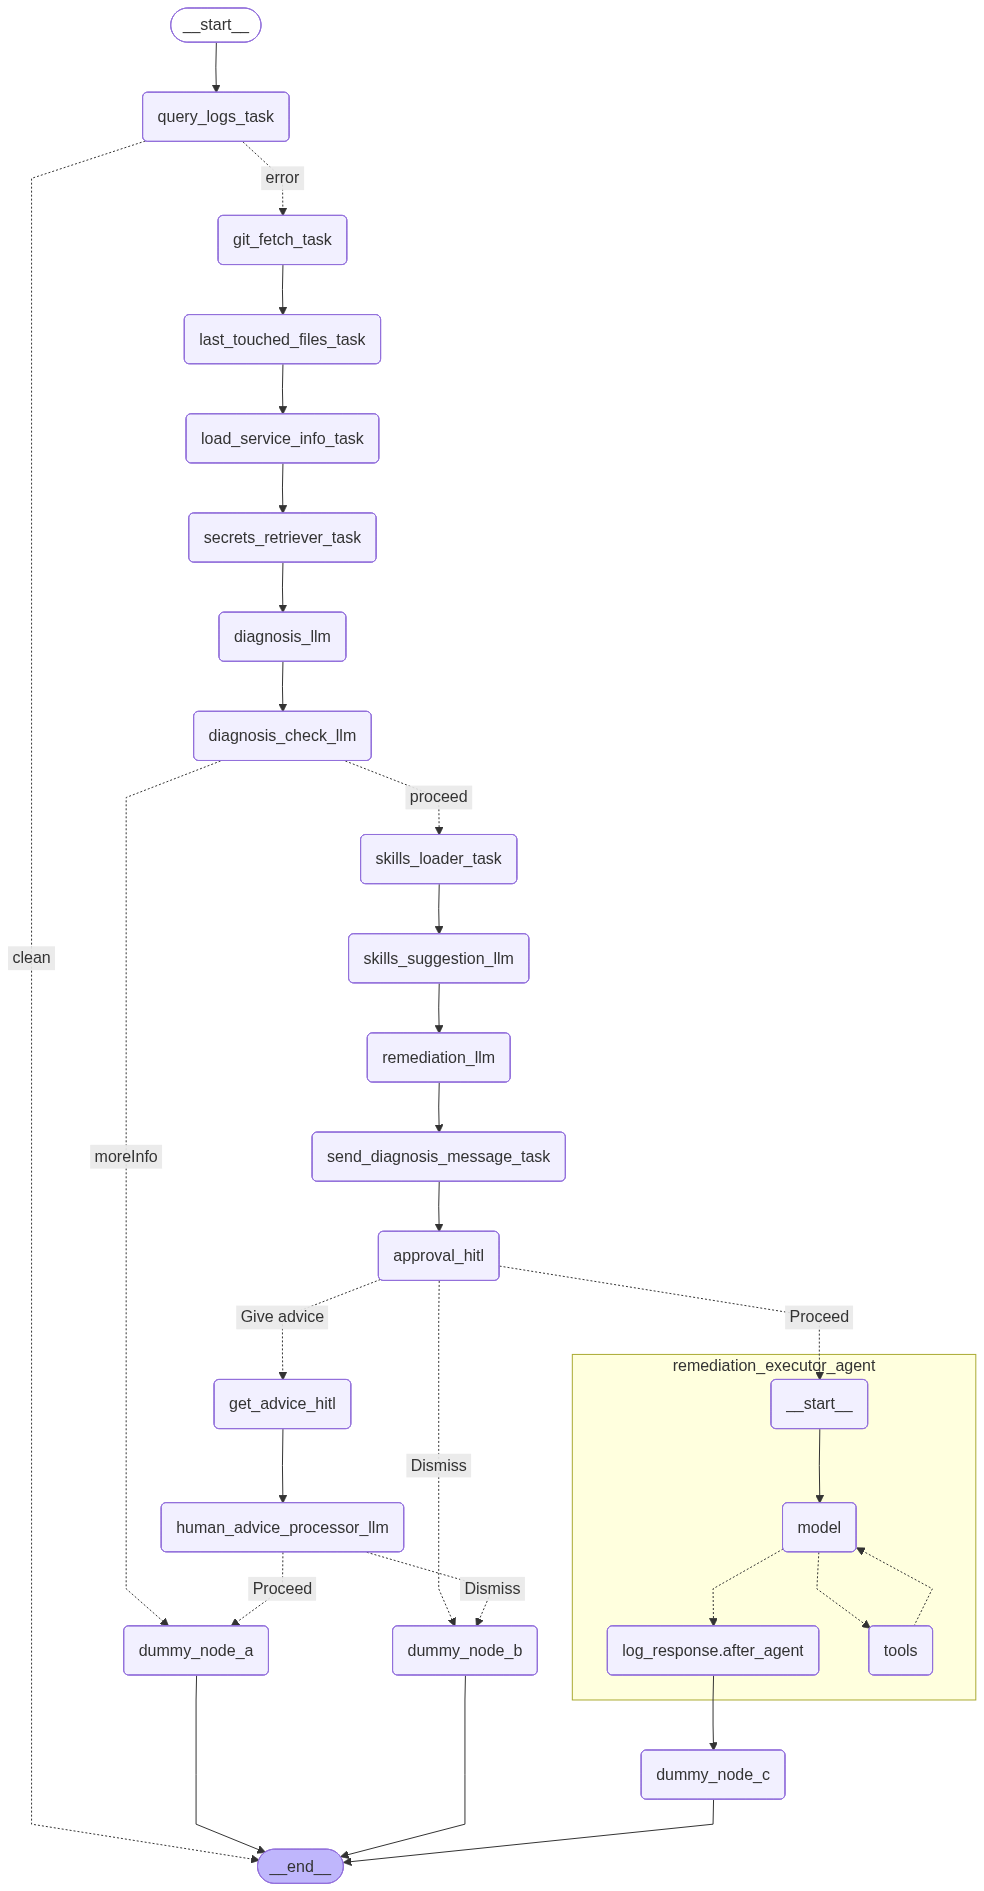
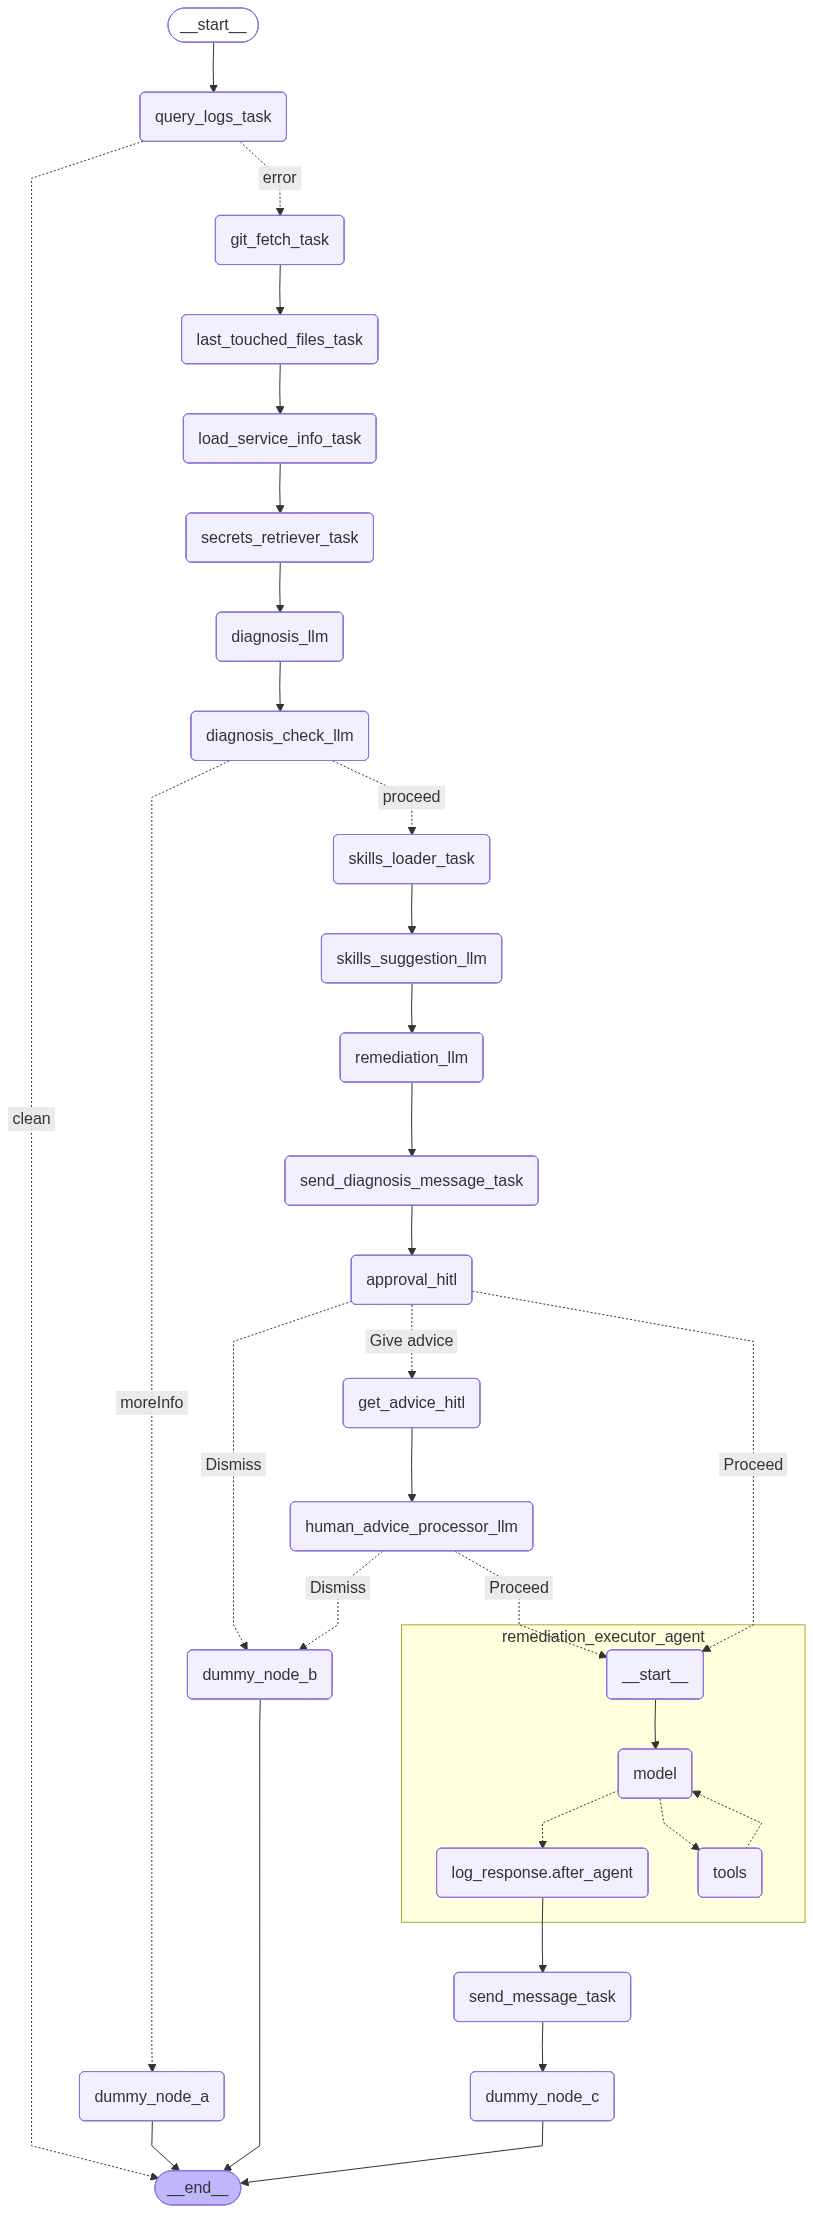
Enhance README and refactor agent workflow
- Updated README.md to include a warning about project usage and added project overview.
- Refactored prompts.py to incorporate user advice into remediation steps.
- Modified middlewares.py to select tools based on user advice.
- Updated workflow.py to integrate new messaging tasks and adjust workflow nodes.
- Deleted obsolete agents_catalog.py and created llms_catalog.py for better organization.
- Added new task node for sending simple messages.
- Created workflow_resume_script.py for resuming workflows based on user decisions.
- Updated workflow_graph.png to reflect recent changes.

diff --git a/app/graph/workflow.py b/app/graph/workflow.py
@@ -6,7 +6,7 @@ from app.agents.llm_factory import LLMsFactory
 from app.agents.prompts import REMEDIATION_AGENT_SYSTEM_PROMPT
 from app.domain.state import State
 from app.graph.middlewares import log_response, select_tools, add_context
-from app.nodes.agents_catalog import *
+from app.nodes.llms_catalog import *
 from app.nodes.edges_catalog import *
 from app.nodes.hitl_interruptors import *
 from app.nodes.task_nodes_catalog import *
@@ -34,6 +34,7 @@ def build_workflow(checkpointer=None, store=None, generate_graph: bool = False) 
     # nodes (injecting deps)
     query_logs_task = query_logs_node(query_logs)
     send_diagnosis_message_task = send_diagnosis_message(send_confirmation_message)
+    send_message_task = send_simple_message(send_message)
     diagnosis_llm = diagnosis_node(openai_llm)
     diagnosis_check_llm = diagnosis_check_node(openai_llm)
     remediation_llm = remediation_node(openai_llm)
@@ -56,7 +57,8 @@ def build_workflow(checkpointer=None, store=None, generate_graph: bool = False) 
     workflow.add_node('remediation_llm', remediation_llm)
     workflow.add_node('human_advice_processor_llm', human_advice_processor_llm)
     workflow.add_node('send_diagnosis_message_task', send_diagnosis_message_task)
-    workflow.add_node('remediation_executor_agent', remediation_executor_agent)
+    workflow.add_node('send_message_task', send_message_task)
+    workflow.add_node('remediation_executor_agent', remediation_agent_executor_n)
     workflow.add_node('approval_hitl', human_approval_node)
     workflow.add_node('get_advice_hitl', human_advice_node)
     workflow.add_node('dummy_node_a', dummy_node_a)
@@ -81,8 +83,9 @@ def build_workflow(checkpointer=None, store=None, generate_graph: bool = False) 
         Constants.HUMAN_APPROVE: 'remediation_executor_agent', Constants.HUMAN_REJECT: 'dummy_node_b', Constants.HUMAN_ADVICE: 'get_advice_hitl' })
     workflow.add_edge('get_advice_hitl', 'human_advice_processor_llm')
     workflow.add_conditional_edges('human_advice_processor_llm', check_human_advice_router, 
-                                   {Constants.HUMAN_APPROVE: 'dummy_node_a', Constants.HUMAN_REJECT: 'dummy_node_b'})
-    workflow.add_edge('remediation_executor_agent', 'dummy_node_c')
+                                   {Constants.HUMAN_APPROVE: 'remediation_executor_agent', Constants.HUMAN_REJECT: 'dummy_node_b'})
+    workflow.add_edge('remediation_executor_agent', 'send_message_task')
+    workflow.add_edge('send_message_task', 'dummy_node_c')
     workflow.add_edge('dummy_node_a', END)
     workflow.add_edge('dummy_node_b', END)
     workflow.add_edge('dummy_node_c', END)

diff --git a/app/graph/middlewares.py b/app/graph/middlewares.py
@@ -27,7 +27,11 @@ async def select_tools(
     handler: Callable[[ModelRequest], ModelResponse],
 ) -> ModelResponse:
     """Middleware to select relevant tools based on state/context."""
-    relevant_tools = load_tools(_get_tools_list_from_state(request.state))
+    advice_tools = []
+    state_tools = load_tools(_get_tools_list_from_state(request.state))
+    if request.state["human_advice_curated"]:
+        advice_tools = load_tools(request.state["human_advice_curated"].tools)
+    relevant_tools = [*state_tools, *advice_tools] 
     return await handler(request.override(tools=relevant_tools))
 
 
@@ -38,11 +42,13 @@ async def add_context(
 ) -> ModelResponse:
     tools = _get_tools_list_from_state(request.state)
     tools_to_use = f"{', '.join(tools)}"
+    user_advice = request.state["human_advice_curated"].suggestions
     prompt_complement = get_bound_message(REMEDIATION_AGENT_ACTION_PROMPT, 
                                           {'context': get_prompt_subfix_lite(request.state), 
                                            'remediation_suggestion': request.state['remediation_steps_suggestion'],
                                            'service_on_analysis_secrets': request.state['secrets_info'].service_on_analysis_secrets,
-                                           'reference_service_secrets': request.state['secrets_info'].reference_service_secrets})
+                                           'reference_service_secrets': request.state['secrets_info'].reference_service_secrets,
+                                           'human_chat_advice': user_advice})
     logger.debug(f"Adding context to system prompt. Tools: {tools_to_use}. Prompt complement: {prompt_complement}")
     new_content = list(request.system_message.content_blocks) + [
         {"type": "text", "text": f"you have access to the following tools: ."},

diff --git a/app/nodes/llms_catalog.py b/app/nodes/llms_catalog.py
@@ -222,8 +222,8 @@ def human_advice_processor_node(llm):
         1. Suggest tools to use
         2. Provide general guidance or instructions in natural language
 
-        Available tools (ONLY these are allowed):
-        {state.skills_suggestion}
+        Available tools (ONLY these are allowed to be adviced, do NOT suggest any tool not in this list):
+        {state.skills_catalog}
 
         Instructions:
         - Do NOT invent tools
@@ -256,9 +256,10 @@ def human_advice_processor_node(llm):
             "confidence": 0.0-1.0
         }}
 
-        User message:
+        The User message to be analyzed is:
         {state.human_chat_advice}
         
+        > Remember to add the user message to the suggestions field in the output if the decision is Proceed, this will be used as an additional input for the remediation agent.
         """)
 
         msg = llm.invoke(prompt)
@@ -271,10 +272,11 @@ def human_advice_processor_node(llm):
     return node
 
 def remediation_agent_executor_node(agent):
-    def node(state: State) -> Command:
+    async def node(state: State) -> Command:
         ''' Agent node to execute the remediation steps provided by the remediation node.
         This node will take the remediation steps suggested by the remediation_node and execute them using the appropriate skills or tools, aiming to resolve the identified issues based on the diagnosis and analysis results.
         '''
-        result = agent.invoke(state)
-        return Command(update=result)
+        result = await agent.ainvoke(state)
+        last_message = result["messages"][-1]
+        return Command(update={'final_message': last_message.content})
     return node

diff --git a/app/agents/prompts.py b/app/agents/prompts.py
@@ -39,8 +39,9 @@ SERVICE_INFO_PREFIX_PROMPT = """
     """
 
 REMEDIATION_AGENT_SYSTEM_PROMPT = [
-    "You are the DevOps engineer responsible for diagnosing and resolving issues in a software service. "
-    "Based on the provided context generated from a diagnosis & remediation flow, your task is to execute the remediation steps to resolve the issue."
+    "You are the DevOps engineer responsible for diagnosing and resolving issues in a software service. ",
+    "Based on the provided context generated from a diagnosis & remediation flow, your task is to execute the remediation steps to resolve the issue.",
+    "There could be a user advice that you should also consider when executing the remediation steps, pay attention to it and use it as an additional input if provided (and if applicable)."
     ]
 
 REMEDIATION_AGENT_ACTION_PROMPT = """
@@ -55,6 +56,9 @@ REMEDIATION_AGENT_ACTION_PROMPT = """
     <previous_suggestion>
     ${remediation_suggestion}
     </previous_suggestion>
+    
+    ### User advice (if any, consider it as well):
+    ${human_chat_advice}
 
     ---
     ### Guidelines:

diff --git a/app/nodes/task_nodes_catalog.py b/app/nodes/task_nodes_catalog.py
@@ -99,3 +99,18 @@ def send_diagnosis_message(message_fn):
             logger.error("Failed to send diagnosis message to any target.")
             return Command(update={'error_message': 'Failed to send diagnosis message to any target.'})
     return node
+
+def send_simple_message(message_fn):
+    def node(state: State) -> Command:
+        '''
+        Tool node to send a simple message to a communication channel (e.g., Telegram) using the provided message sending function.
+        '''
+        logger.info("Sending message to communication channel...")
+        results = asyncio.run(message_fn(state.final_message))
+        if results and any(results.values()):
+            logger.info("Message sent successfully to at least one target.")
+            return Command(update={'info_message': 'Message sent successfully to at least one target.'})
+        else:
+            logger.error("Failed to send message to any target.")
+            return Command(update={'error_message': 'Failed to send message to any target.'})
+    return node

diff --git a/workflow_resume_script.py b/workflow_resume_script.py
@@ -78,8 +78,8 @@ async def handle_reply_advice(update: Update, context: ContextTypes.DEFAULT_TYPE
     thread_id = match.group(1)
     user_input = msg.text
     
-    await resume_workflow(user_desicion=user_input, thread_id=thread_id)
     await msg.reply_text(f"Perfecto, gracias por tu aporte. Estoy procesando tu sugerencia para el thread id <b>{thread_id}</b>.", parse_mode="HTML")
+    await resume_workflow(user_desicion=user_input, thread_id=thread_id)
 
 
 # Example Received callback query: diagnosis_report:diagnosis-service-b-74692c80:approved

diff --git a/README.md b/README.md
@@ -1,5 +1,8 @@
 # Autonomous Service Diagnostics and Remediation System
 
+> ⚠ **Attention**: Read this carefully. This README provides a comprehensive overview of the project, its architecture, workflows, and usage instructions. It is essential to understand the system's design and operation before running the code. Don't execute in production environments without proper testing and validation.
+
+
 An AI-powered autonomous agent system that monitors, diagnoses, and remediates service issues using LangGraph workflows with human-in-the-loop (HITL) oversight via Telegram.
 
 ## 🎯 Project Overview
@@ -196,6 +199,7 @@ Below is the complete workflow as visualized in `workflow_graph.png`:
   - If advice rejects action → `dummy_node_b` → END
 
 > Dummy nodes represent workflow debug termination points based on different outcomes. they can be deleted or replaced with actual nodes as needed.
+> The Agent use the default recursion limit value (25)
 ---
 
 ## 📦 Prerequisites
